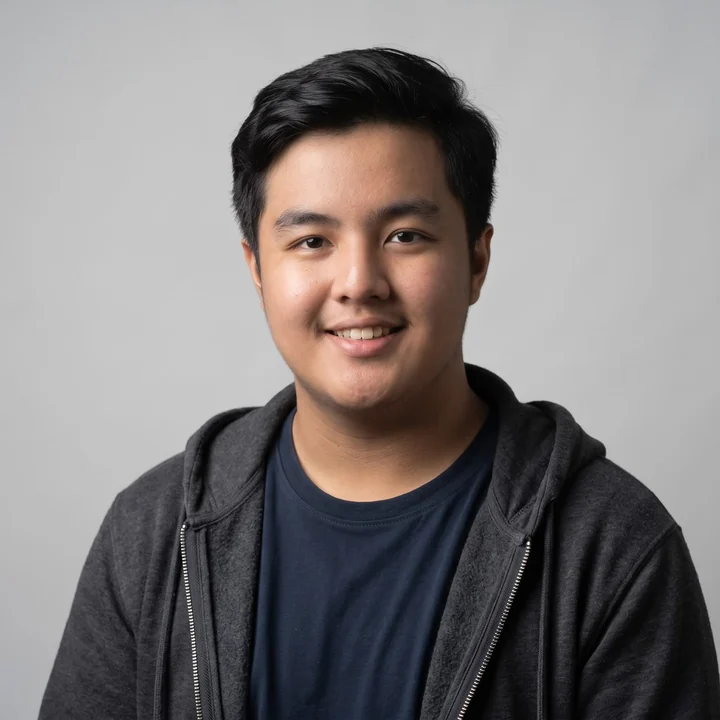
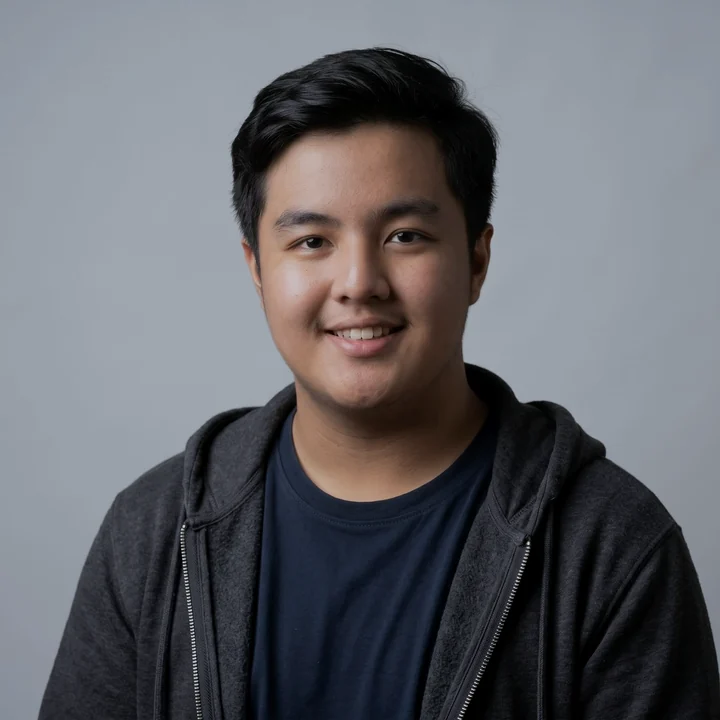
style: deepen the dark palette and tone down the headshot
- surface tokens move a step down (bg #07080a, panel #0e1013, panel-2 #131619),
  foreground and muted text dimmed to match, borders slightly softer
- the headshot is rendered at 82% brightness with a touch of contrast and a
  cooler cast, so the light grey studio backdrop no longer reads as a bright
  square inside the dark rail

diff --git a/app/globals.css b/app/globals.css
@@ -15,15 +15,15 @@
 }
 
 .dark {
-  --bg: #0b0c0e;
-  --panel: #111316;
-  --panel-2: #16191d;
-  --line: rgba(255, 255, 255, 0.09);
-  --fg: #eef1f5;
-  --muted: #98a1ad;
-  --dim: #69707b;
+  --bg: #07080a;
+  --panel: #0e1013;
+  --panel-2: #131619;
+  --line: rgba(255, 255, 255, 0.08);
+  --fg: #e8ebf0;
+  --muted: #939ca9;
+  --dim: #61686f;
   --accent: #5b8cff;
-  --line-color: rgba(255, 255, 255, 0.2);
+  --line-color: rgba(255, 255, 255, 0.18);
 }
 
 html {
